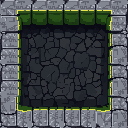
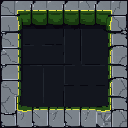
Add pulsing glow + breathing to EXP motes; update README to current build

diff --git a/src/pickups.js b/src/pickups.js
@@ -2,7 +2,9 @@
    pickups.js — things enemies drop that the witch collects.
 
    Pickup (currency mote): grants XP. Uses a small looping idle sprite, with
-   a gold-circle fallback.
+   a gold-circle fallback. The loaded sprite now gets a soft, pulsing gold
+   GLOW HALO + a gentle "breathing" scale so motes read as little magical
+   beacons (cheap: a radial gradient, NOT shadowBlur, so swarms stay smooth).
 
    HealthFlask (Feature 1): a rarer drop that restores HP. Uses a SIMPLE green
    placeholder shape for now (no sprite — art is paused). Carries its heal
@@ -15,6 +17,12 @@ import { loadImage, getImage } from "./assets.js";
 const MOTE_FRAMES = 4;
 const MOTE_FPS = 6;
 
+// --- Mote glow tuning (all easy to dial) ---------------------------------
+const MOTE_GLOW_SPEED = 3;        // radians/sec the halo + scale pulse breathes
+const MOTE_HALO_SCALE = 2.6;      // halo radius as a multiple of the mote radius
+const MOTE_HALO_PULSE = 0.30;     // how much the halo radius grows/shrinks (0..1)
+const MOTE_BREATHE_AMOUNT = 0.14; // sprite scale swing (≈ ±7%)
+
 loadImage("mote_idle", "assets/sprites/pickups/mote_idle.png");
 
 export class Pickup {
@@ -26,6 +34,7 @@ export class Pickup {
     this.dead = false;
 
     this.bob = randomRange(0, Math.PI * 2);
+    this.glow = randomRange(0, Math.PI * 2); // own phase so glow ≠ in lock-step with bob
     this.spriteScale = 0.5;
     this.animFrame = randomInt(0, MOTE_FRAMES - 1);
     this.animTimer = 0;
@@ -33,6 +42,7 @@ export class Pickup {
 
   update(dt) {
     this.bob += dt * 4;
+    this.glow += dt * MOTE_GLOW_SPEED;
 
     const frameDur = 1 / MOTE_FPS;
     this.animTimer += dt;
@@ -44,27 +54,47 @@ export class Pickup {
 
   draw(ctx) {
     const yOff = Math.sin(this.bob) * 2;
+    const cy = this.y + yOff;
     const img = getImage("mote_idle");
 
+    // Breathing value 0..1 (drives both the halo and the sprite scale).
+    const pulse = 0.5 + 0.5 * Math.sin(this.glow);
+
     if (img && img.width > 0) {
+      // --- Soft glow halo behind the sprite ---
+      // A radial gradient is far cheaper than ctx.shadowBlur, so dozens of
+      // motes on screen at once (swarms / Lucky Paws) stay smooth.
+      const haloR = this.radius * MOTE_HALO_SCALE * (1 - MOTE_HALO_PULSE / 2 + pulse * MOTE_HALO_PULSE);
+      const g = ctx.createRadialGradient(this.x, cy, 0, this.x, cy, haloR);
+      g.addColorStop(0, `rgba(244, 213, 141, ${0.32 + pulse * 0.26})`);
+      g.addColorStop(0.45, "rgba(244, 213, 141, 0.16)");
+      g.addColorStop(1, "rgba(244, 213, 141, 0)");
+      ctx.fillStyle = g;
+      ctx.beginPath();
+      ctx.arc(this.x, cy, haloR, 0, Math.PI * 2);
+      ctx.fill();
+
+      // --- Sprite, with a subtle breathing scale ---
+      const breathe = 1 + (pulse - 0.5) * MOTE_BREATHE_AMOUNT;
       const fw = img.width / MOTE_FRAMES;
       const fh = img.height;
-      const dw = fw * this.spriteScale;
-      const dh = fh * this.spriteScale;
+      const dw = fw * this.spriteScale * breathe;
+      const dh = fh * this.spriteScale * breathe;
       const sx = Math.floor(this.animFrame) * fw;
-      ctx.drawImage(img, sx, 0, fw, fh, this.x - dw / 2, this.y + yOff - dh / 2, dw, dh);
+      ctx.drawImage(img, sx, 0, fw, fh, this.x - dw / 2, cy - dh / 2, dw, dh);
     } else {
+      // --- Fallback gold mote (unchanged) ---
       ctx.save();
       ctx.shadowColor = "#f4d58d";
       ctx.shadowBlur = 12;
       ctx.fillStyle = "#f4d58d";
       ctx.beginPath();
-      ctx.arc(this.x, this.y + yOff, this.radius, 0, Math.PI * 2);
+      ctx.arc(this.x, cy, this.radius, 0, Math.PI * 2);
       ctx.fill();
       ctx.shadowBlur = 0;
       ctx.fillStyle = "#fff6dd";
       ctx.beginPath();
-      ctx.arc(this.x, this.y + yOff, this.radius * 0.45, 0, Math.PI * 2);
+      ctx.arc(this.x, cy, this.radius * 0.45, 0, Math.PI * 2);
       ctx.fill();
       ctx.restore();
     }

diff --git a/README.md b/README.md
@@ -1,10 +1,13 @@
 # Familiar Frenzy
 
 A top-down survival arena game for **AI Browser Game Jam 3**.
+Theme: **Familiar**.
 
-A young witch tries to survive waves of cursed creatures. Her black cat
-familiar is the true source of attack — the player dodges, collects magic
-currency, levels up, and improves the familiar.
+A young witch tries to survive waves of cursed creatures. She never aims or
+shoots — her ghost cat **familiar** is the true attacker, auto-firing at the
+nearest enemy. The player focuses on movement, dodging, collecting EXP motes,
+leveling up, choosing upgrades, and shaping the familiar into a stronger spirit
+companion.
 
 Built with **plain HTML, CSS, JavaScript, and HTML5 Canvas**. No frameworks,
 no build tools, no npm.
@@ -14,44 +17,82 @@ no build tools, no npm.
 ## Run it locally
 
 ES modules require the page to be **served over http** (double-clicking
-`index.html` will show a blank screen due to browser security rules).
+`index.html` shows a blank screen due to browser security rules).
 
-From inside the `familiar-frenzy/` folder, run **one** of these:
+Recommended: open the project folder in **VS Code** and use the **Live Server**
+extension ("Go Live" in the status bar). Any static HTTP server works too — the
+only requirement is that the page loads over `http://`, not `file://`.
 
-```bash
-# Python 3 (most common)
-python -m http.server 8000
-
-# or Node, if you have it
-npx serve .
-```
-
-Then open: **http://localhost:8000**
+Then open the served URL (Live Server defaults to `http://127.0.0.1:5500`).
 
 ---
 
 ## Controls
 
-| Action | Key |
+| Action | Keys |
 | --- | --- |
 | Move | WASD / Arrow Keys |
-| Start | Enter |
-| Restart (after Game Over) | R |
-| *(Phase 1 debug)* simulate death | K |
+| Confirm / Select | Enter / Space |
+| Pick an upgrade | Enter (first card) or 1 / 2 / 3 |
+| Familiar Frenzy | Space (when the Frenzy meter is full) |
+| Pause / Resume | Esc / P |
+| Back (in menus) | Esc / Backspace |
+| Restart run | R (after Game Over or Victory) |
 
-> The **K** key is a temporary testing shortcut for Phase 1 and will be
-> removed once enemies deal real damage in Phase 3.
+> The familiar attacks automatically — there is no fire button. Frenzy makes it
+> fire much faster for a few seconds; save it for swarms or the boss.
+
+---
+
+## Game flow
+
+```txt
+Main Menu ─┬─ Play ── Mode Select ─┬─ Tutorial Run (10 waves → Wave 10 boss → Victory)
+           │                       └─ Endless Mode (boss every 10 waves, scales up)
+           ├─ How to Play
+           ├─ High Scores   (placeholder)
+           └─ Settings      (placeholder)
+
+Victory ─┬─ Continue to Endless Frenzy (same run carries into Wave 11)
+         ├─ Replay Tutorial
+         └─ Main Menu
+```
+
+Pausing (Esc / P) freezes gameplay and shows a run-info panel (mode, wave,
+level, score, health, frenzy, upgrades taken, evolution).
 
 ---
 
 ## Current status
 
-- **Phase 1 — Skeleton** ✅ canvas, game loop, input, title / playing /
-  game-over states, placeholder player movement, health value, score display.
+The game is playable end-to-end in both modes.
 
-Upcoming: familiar (Phase 2), enemies + damage (Phase 3), drops + XP
-(Phase 4), upgrade screen (Phase 5), waves + victory (Phase 6), polish
-(Phase 7).
+**Implemented**
+
+- Main menu, mode select, How to Play, and pause menu (with quit confirmation)
+- Tutorial Run: escalating waves, intermission banners, Wave 10 **Elder Wisp**
+  boss (wobble-follow, telegraphed dash, periodic summons, boss HP bar)
+- Endless Mode: recurring bosses every 10 waves, per-tier difficulty scaling,
+  Tutorial → Endless carryover at Wave 11, localStorage best wave/score
+- Ghost cat familiar: follow + auto-fire bolts, bolt piercing, **Phantom Pounce**
+  evolution (auto-unlock)
+- EXP motes (with glow), health flasks, the **Familiar Frenzy** meter
+- Level-up upgrade picker with per-upgrade caps (Lv. x/y) and a Spirit Recovery
+  fallback when everything is maxed; expanded upgrade pool
+- Tutorial Complete victory screen with run summary; mode-aware Game Over
+- Large scrolling world with a player-following camera (Vampire-Survivors style)
+- Tiled dungeon arena with seeded floor props and a wall-ring border the player
+  collides against
+- Graceful asset fallback: missing sprites draw placeholder shapes instead of
+  crashing
+
+**Pending / placeholder**
+
+- Enemy and boss sprites (currently drawn shapes)
+- Health-flask sprite (drawn shape)
+- High Scores menu screen
+- Settings menu screen
+- Audio system (`src/audio.js` is an intentional empty stub)
 
 ---
 
@@ -59,11 +100,12 @@ Upcoming: familiar (Phase 2), enemies + damage (Phase 3), drops + XP
 
 This game ships as static files. To publish:
 
-1. Zip the **contents** of `familiar-frenzy/` (so `index.html` is at the
-   top level of the zip — not inside a nested folder).
-2. On itch.io, create the project, set **Kind of project: HTML**.
+1. Zip the **contents** of the project folder (so `index.html` is at the top
+   level of the zip — not inside a nested folder).
+2. On itch.io, create the project and set **Kind of project: HTML**.
 3. Upload the zip and tick **"This file will be played in the browser"**.
-4. Set the viewport to **960 x 540** (matches the canvas).
+4. Set the viewport to roughly **960 x 540** (the canvas internal resolution;
+   CSS scales how big it looks).
 
 ---
 
@@ -75,18 +117,23 @@ familiar-frenzy/
   style.css         # frames/centers the canvas (theme lives here)
   src/
     main.js         # entry point + game loop (delta time)
-    game.js         # state machine (title / playing / gameOver)
-    input.js        # keyboard input
-    player.js       # the witch (placeholder shape)
-    ui.js           # title screen, HUD, game-over screen
+    game.js         # state machine, world/camera, arena rendering, run logic
+    input.js        # keyboard input (held + one-shot presses)
+    player.js       # the witch: 8-dir sprites, movement, i-frames, death anim
+    familiar.js     # ghost cat: follow + auto-fire bolts, piercing, evolution
+    enemies.js      # Cursed Wisp, Elder Wisp boss, WaveManager
+    pickups.js      # EXP motes (glow) + health flasks
+    upgrades.js     # data-driven upgrade pool + offer logic
+    ui.js           # menus, HUD, upgrade / victory / pause / game-over screens
+    assets.js       # image loader with graceful fallback
     utils.js        # shared math helpers
-    familiar.js     # Phase 2 (stub)
-    enemies.js      # Phase 3 (stub)
-    pickups.js      # Phase 4 (stub)
-    upgrades.js     # Phase 5 (stub)
-    assets.js       # Phase 7 (stub)
-    audio.js        # Phase 7 (stub)
-  assets/           # sprites / backgrounds / sfx / music (empty for now)
+    audio.js        # placeholder (sfx / music — not wired yet)
+  assets/
+    sprites/        # player / familiar / enemies / pickups / ui
+    tiles/          # Main_Dungeon.png, floor_props.png
+    backgrounds/
+    sfx/
+    music/
   README.md
   CREDITS.md
   AI_USAGE.md

diff --git a/AI_USAGE.md b/AI_USAGE.md
@@ -59,3 +59,5 @@ This is an AI-focused jam, so this file tracks how AI tools were used.
 | 2026-06-07 | Art/Tiles | Tiled arena floor + stone wall border from 32px 4x4 dungeon tileset (culled drawImage, 2x2 floor variation, integer-camera anti-seam); world height aligned to 1344 | Claude |
 | 2026-06-07 | Gameplay | Wall-ring collision inset — player clamps to floor interior; drops and boss summons kept off the wall border | Claude |
 | 2026-06-07 | Art/Tiles | Floor prop layer: normalized 131px prop sheet to clean 128 grid; seeded per-tile prop pass over the arena floor (22% variants + rare rune-circle seals), interior-only, no flicker | Claude |
+| 2026-06-07 | Art/FX | EXP mote glow polish: pulsing gold radial-gradient halo + gentle breathing scale (cheap, swarm-safe, sprite path only) | Claude |
+| 2026-06-07 | Docs | README rewritten to current build (full feature list, Live Server run steps, accurate controls + game-flow, updated file tree) | Claude |
